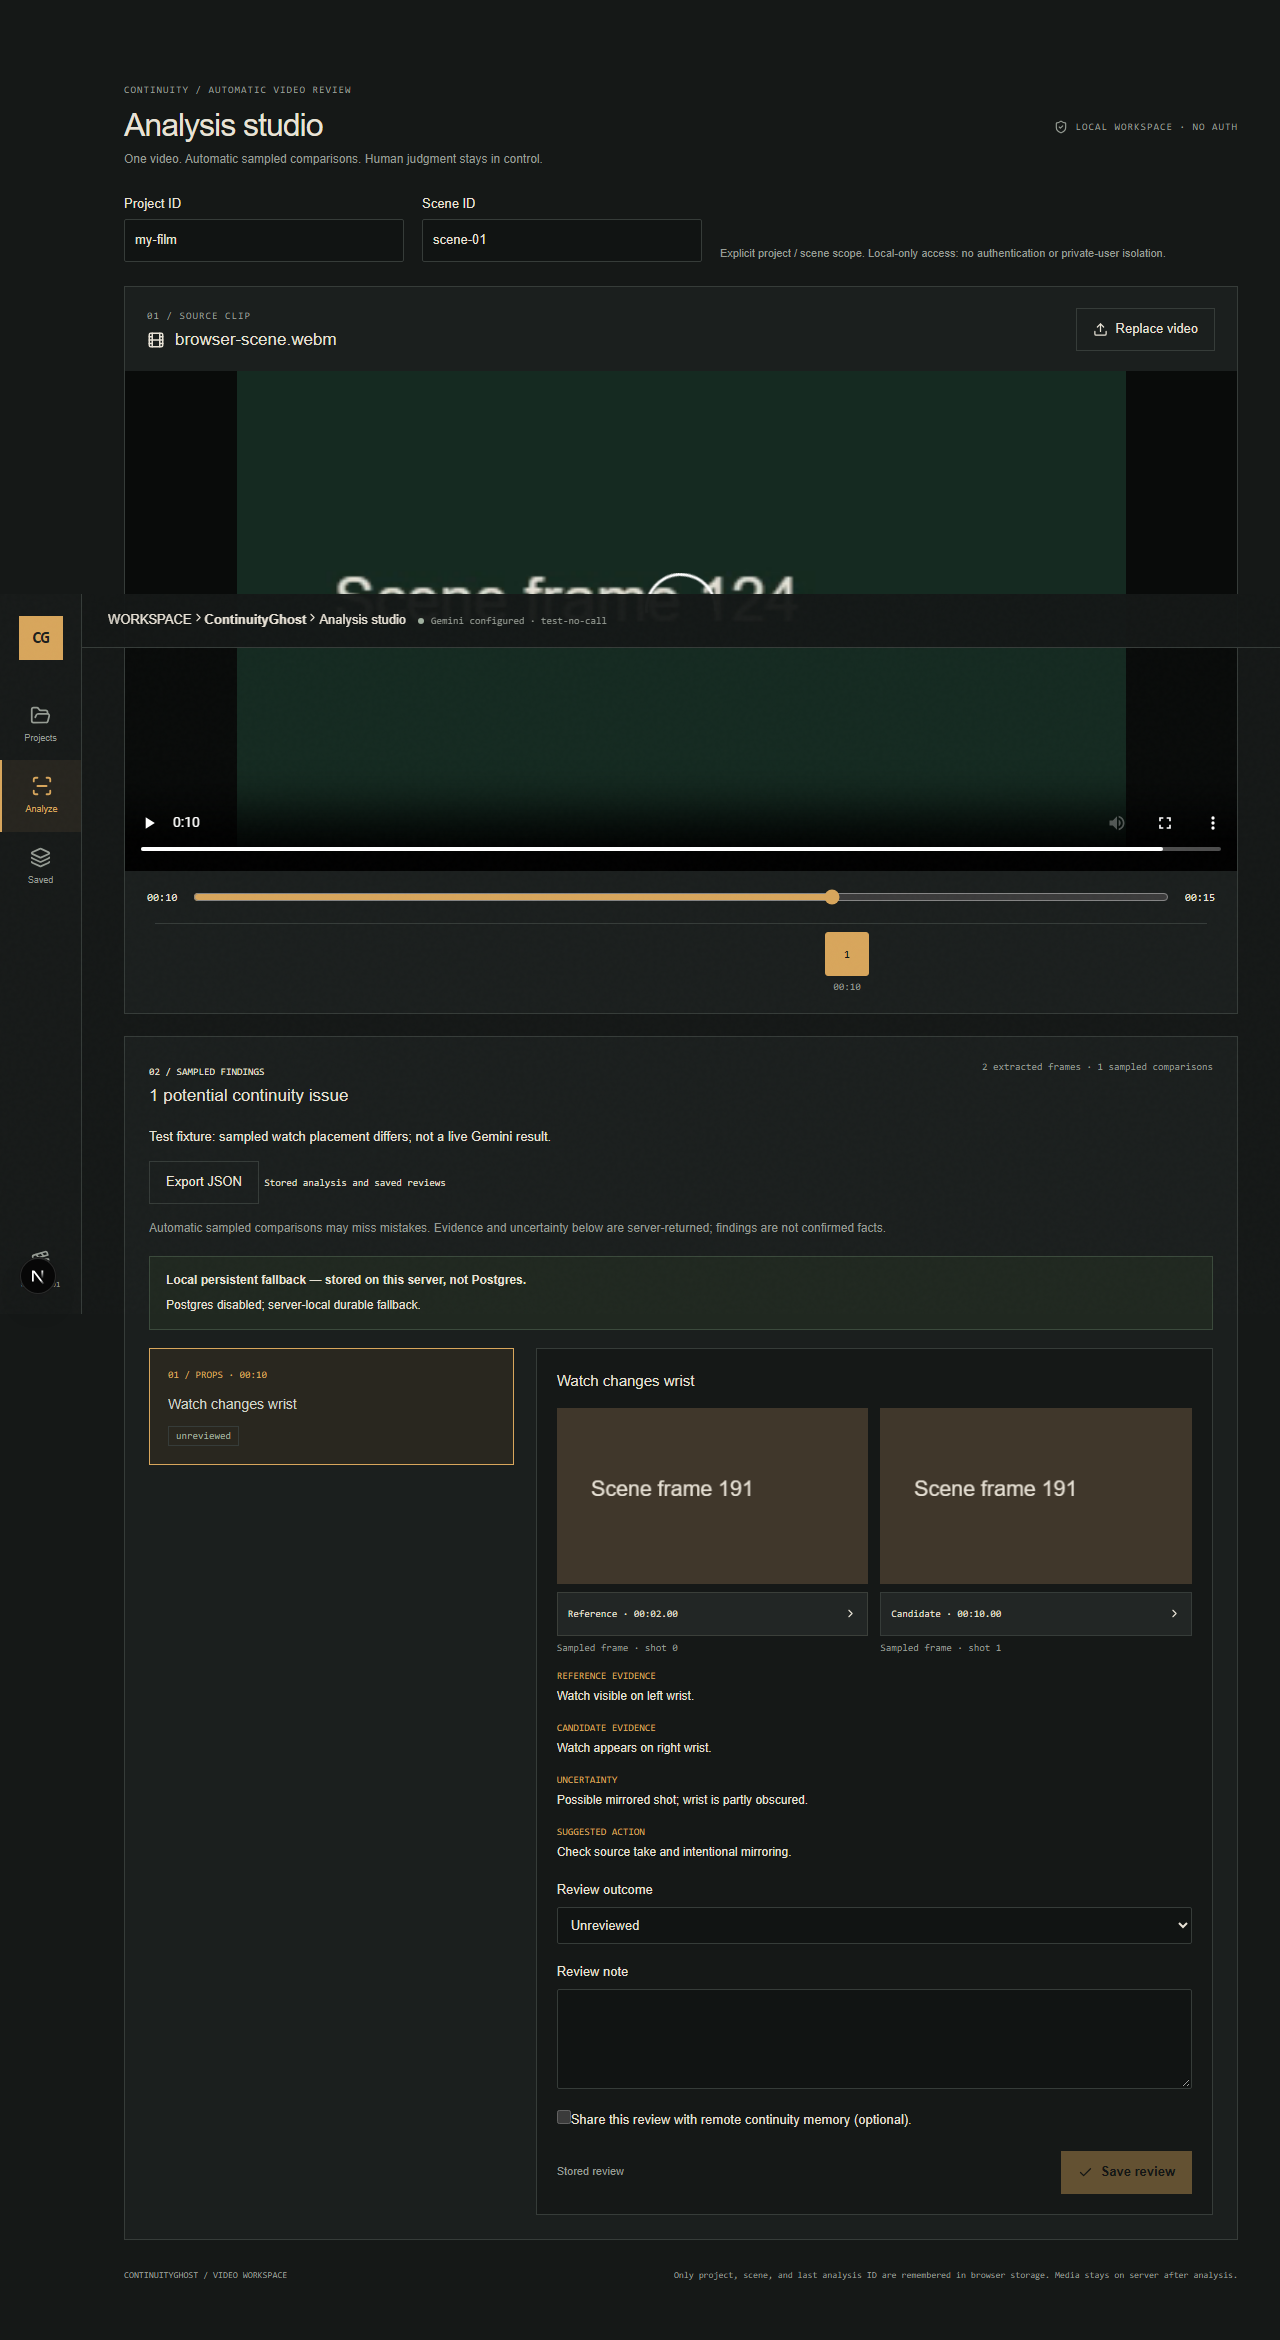
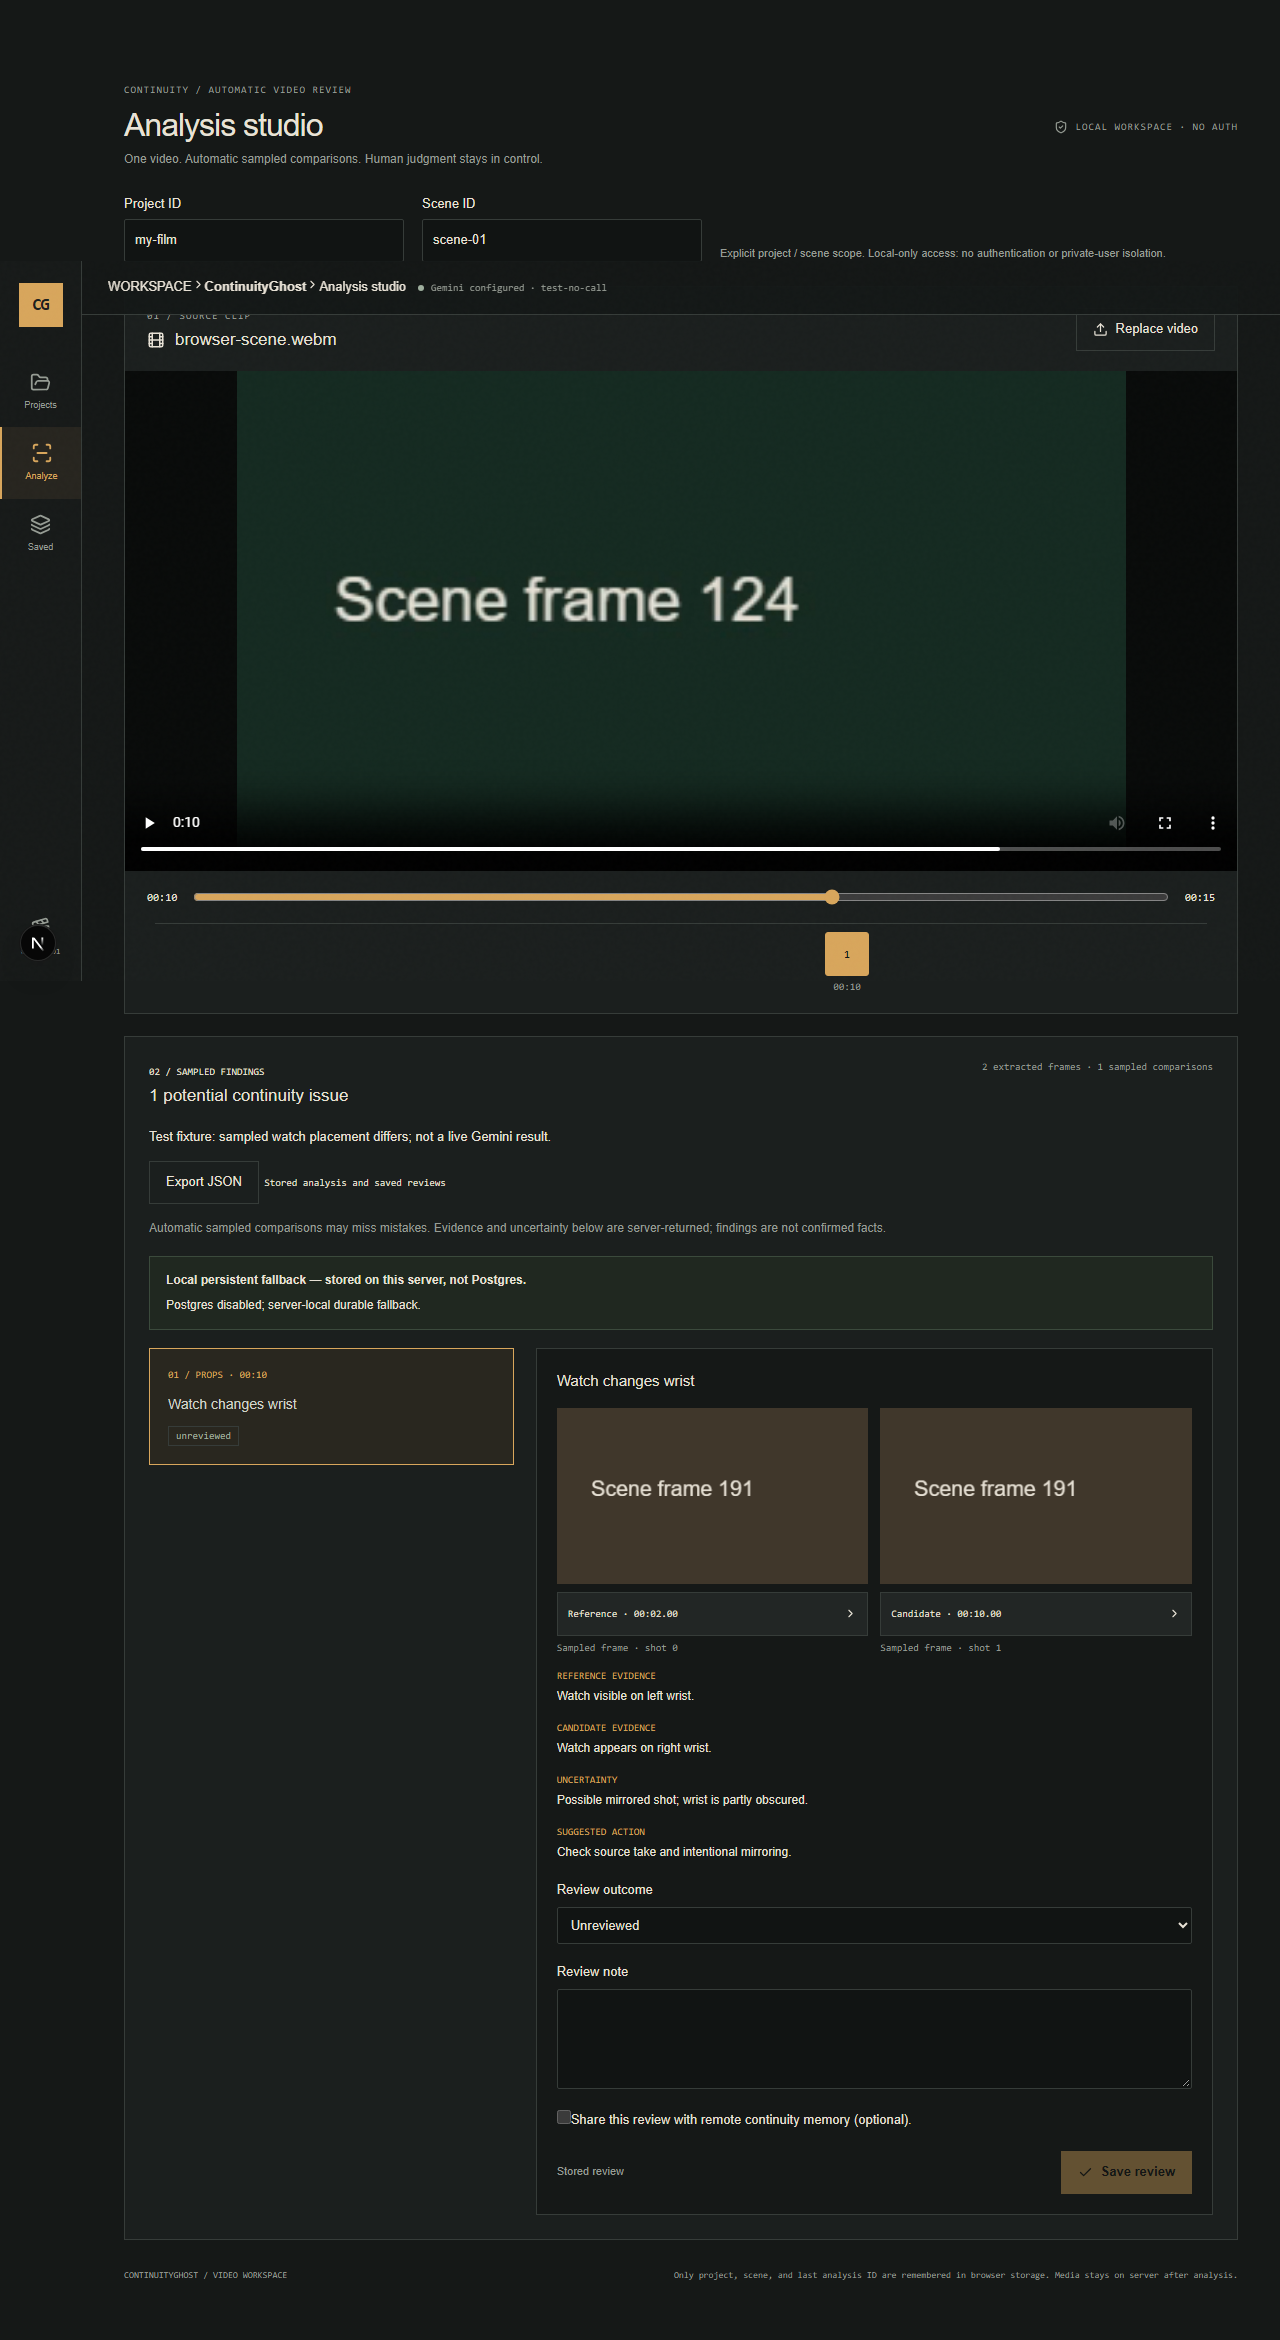
fix: return evidence timestamp navigation to visible video player

diff --git a/tests/studio.spec.ts b/tests/studio.spec.ts
@@ -227,6 +227,25 @@ test('rejects MIME and oversized video before upload', async ({ page }) => {
  expect(mock.requests.filter(r => r.url === '/api/video/analyze')).toHaveLength(0);
 });
 
+for (const viewport of [{ name: 'desktop', width: 1440, height: 900 }, { name: 'mobile', width: 390, height: 844 }]) {
+ test(`${viewport.name} evidence timestamp brings the sought video back into view`, async ({ page }) => {
+  await page.setViewportSize(viewport);
+  await page.emulateMedia({ reducedMotion: 'reduce' });
+  const mock = await mockApi(page); await page.goto('/'); await analyze(page);
+  await page.getByRole('button', { name: 'Issue 1 at 00:10' }).click();
+  const jump = page.getByRole('button', { name: 'Jump to reference at 00:02' });
+  await jump.scrollIntoViewIfNeeded();
+  await expect(page.locator('video')).not.toBeInViewport();
+  await jump.focus(); await page.keyboard.press('Enter');
+  await expect(page.locator('video')).toBeInViewport({ ratio: 1 });
+  await expect(page.locator('video')).toBeFocused();
+  await expect.poll(() => page.locator('video').evaluate(v => (v as HTMLVideoElement).currentTime)).toBeCloseTo(2, 0);
+  await expect(page.getByRole('slider', { name: 'Video timeline' })).toHaveAttribute('aria-valuetext', '00:02 of 00:15');
+  await page.screenshot({ path: `docs/overnight-screenshots/evidence-return-${viewport.name}.png` });
+  expect(mock.external).toEqual([]);
+ });
+}
+
 test('mobile upload, markers and evidence have no horizontal overflow', async ({ page }) => {
  await page.setViewportSize({ width: 390, height: 844 }); await mockApi(page); await page.goto('/'); await analyze(page);
  await page.getByRole('button', { name: 'Issue 1 at 00:10' }).click();

diff --git a/src/components/video-import.tsx b/src/components/video-import.tsx
@@ -14,7 +14,11 @@ export default function VideoImport({ disabled, clip, analysis, activeId, seek, 
  const player = useRef<HTMLVideoElement>(null);
  useEffect(() => {
   const video = player.current;
-  if (video && seek) { video.pause(); video.currentTime = seek.time; }
+  if (video && seek) {
+   video.pause(); video.currentTime = seek.time;
+   video.focus({ preventScroll: true });
+   video.scrollIntoView({ block: "center", behavior: window.matchMedia("(prefers-reduced-motion: reduce)").matches ? "instant" : "smooth" });
+  }
  }, [seek]);
  useEffect(() => {
   if (!clip) return;

diff --git a/docs/overnight-website-report.md b/docs/overnight-website-report.md
@@ -33,7 +33,18 @@ Progress must be recorded below with concrete tests, screenshots, decisions and 
 - Visually inspected `docs/overnight-screenshots/evidence-navigation-desktop.png` and `docs/overnight-screenshots/evidence-navigation-mobile.png`. These show explicitly offline test fixtures, not model results. Evidence buttons fit mobile. Full-page captures show workspace bar crossing video: investigate actual sticky viewport behavior next pass. Closely spaced timeline markers remain follow-up.
 - Impeccable source detector: three pre-existing findings (Inter and navigation accent borders); retained incumbent design. Source scan does not assess runtime contrast.
 - Demo: select a finding, compare sampled images, use Reference/Candidate to inspect surrounding video, then save review. No live-provider verification, merge or deployment.
-- Test server on port 3200 stopped (connection refused). Original audit checkout untouched. This pass commit hash can be resolved from git log next pass.
+- Test server on port 3200 stopped (connection refused). Original audit checkout untouched. Verified commit: `4520c446db2c95e7e5011475563f68f155874dd9` (resolved from git log this pass).
+
+### Pass 2 — return from evidence to the sought video (2026-11-14 23:30 Phoenix)
+
+- Highest-impact verified gap: timestamp buttons changed playback time while leaving the player completely offscreen during long evidence reviews. Desktop navigation was inspected first and is already sticky; no speculative navigation/CSS change was made.
+- Surgical frontend fix: a timestamp seek now pauses, seeks, focuses the native player without an extra browser jump, then centers it smoothly. Reduced-motion users get an immediate return instead. No automatic playback, backend/API/consent changes, or redesign.
+- Added desktop (1440×900) and mobile (390×844) keyboard regression tests: scroll to evidence, establish player outside viewport, activate timestamp with Enter, assert entire player visible, native focus, correct time and accessible scrubber value. Both tests reproduced the real offscreen bug before the fix, then passed.
+- Verification: `npm test` **227/227 passed (18 files)**; `npm run lint` passed; `npm run typecheck` passed; `npm run build` passed (Next 16.4.6). `npm run test:e2e` **15/15 passed**, including existing upload → analysis → findings → timeline → evidence → review → saved-history coverage. All application commands used `ALLOW_PAID_ANALYSIS=false ALLOW_SUPERMEMORY=false ALLOW_DATABASE=false`; E2E APIs intercepted with clearly labeled offline fixtures, no external requests in added cases.
+- Visual inspection: `docs/overnight-screenshots/evidence-return-desktop.png` and `evidence-return-mobile.png` confirm full player visibility, focus outline, available native controls and no header overlap on video. Existing desktop/mobile evidence screenshots were regenerated by the full suite. The sticky header can clip scrolled scope labels on desktop; it does not obscure the returned player and is not expanded into this fix.
+- Impeccable detector: changed TSX scanned, no regex findings; parsed-page/contrast rules did not run, so this is not a full accessibility audit. Runtime desktop/mobile inspection and keyboard assertions provide the relevant evidence.
+- Demo: from a finding's evidence panel, activate Reference/Candidate; the source player comes back into view at the evidence time, paused for human inspection. Future checks should verify both time **and** viewport/focus; a correct seek alone is not a complete navigation interaction.
+- No live Gemini/Supermemory/Tiger calls, merge, deployment, credential reads or original-checkout edits. Test server exited after E2E; port 3200 has no listener. This pass's commit hash can be resolved from git log next pass.
 
 ## Registered schedule
 
